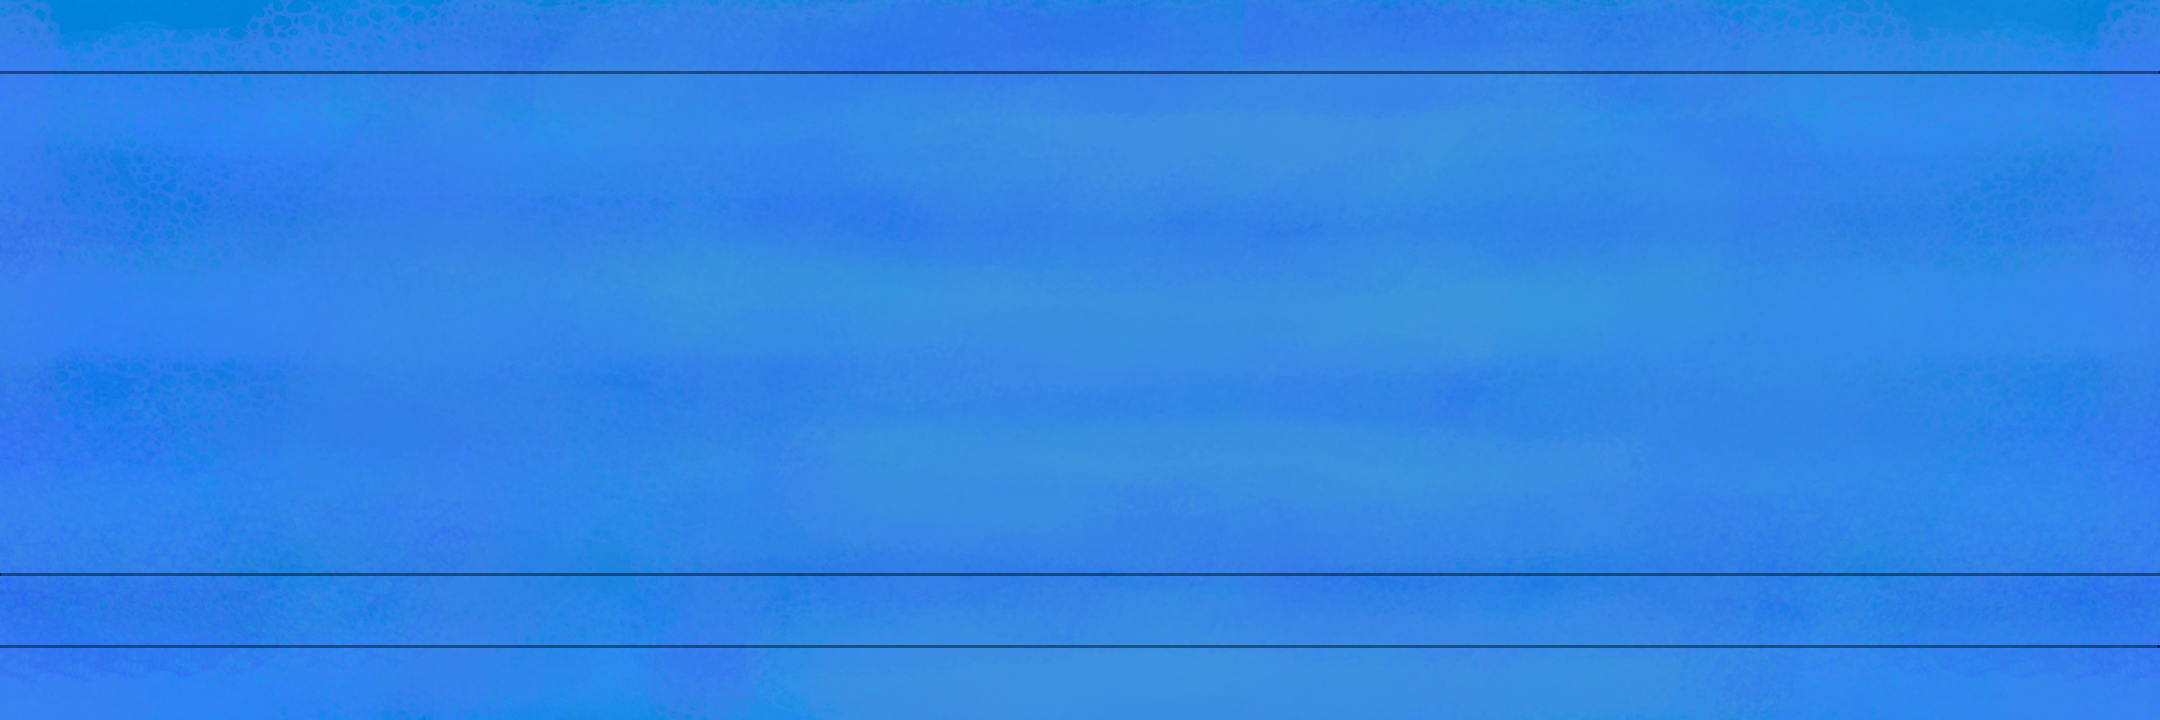
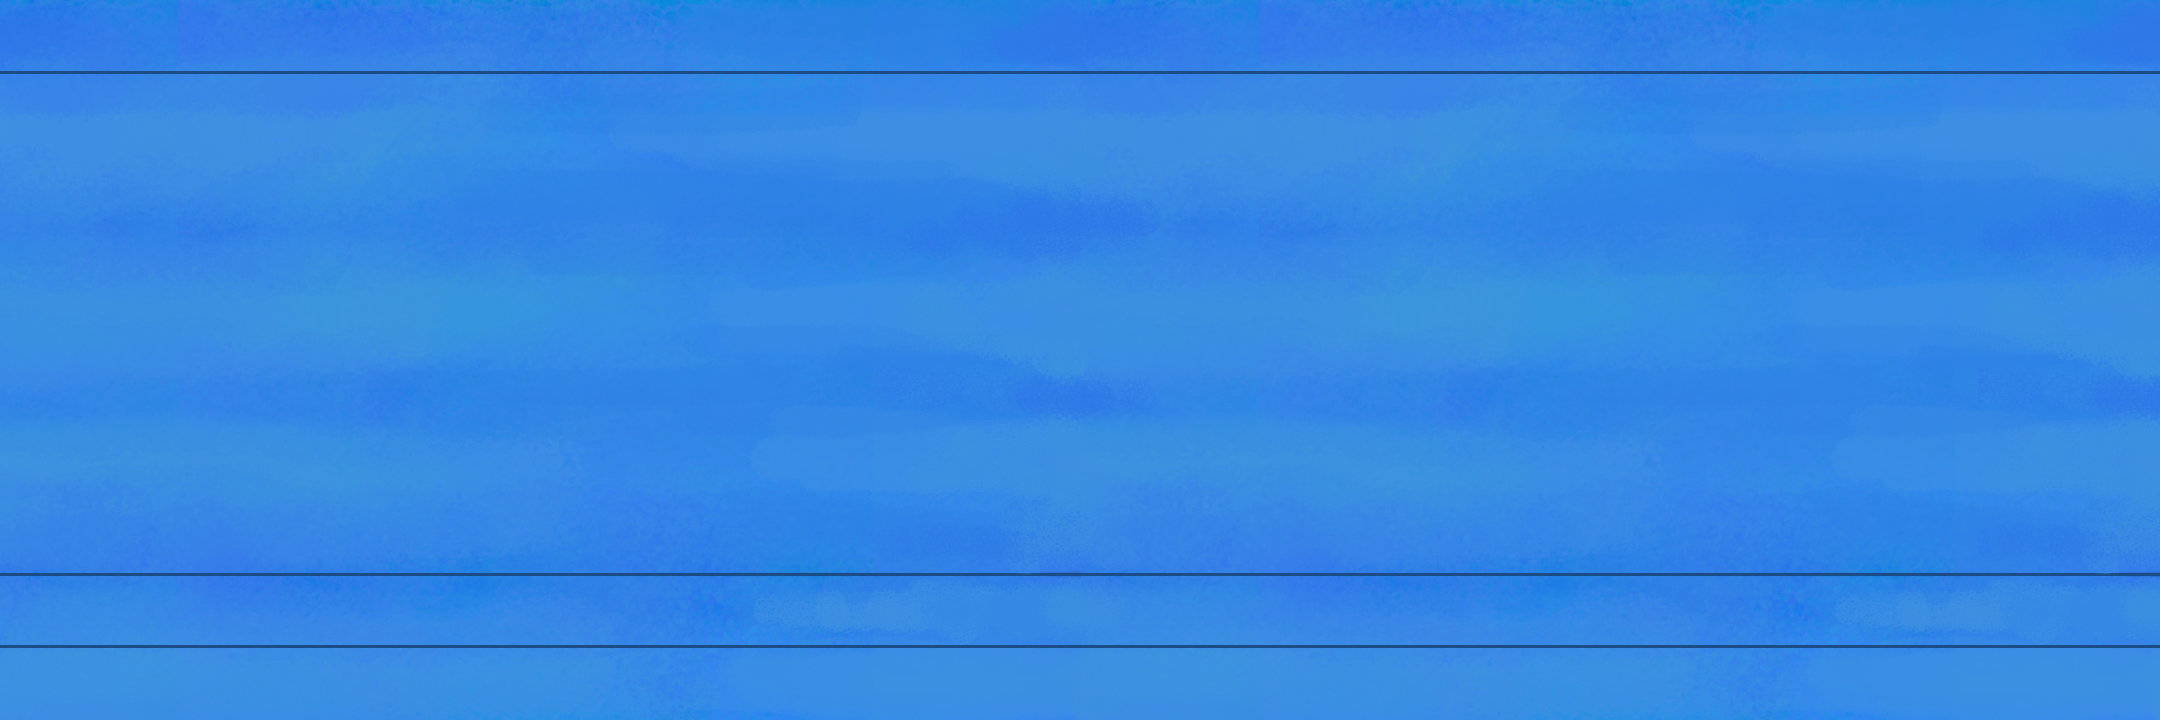
Fixed rolling backgorund and added finish line
Made a smooth transistion when the rolling background moves.
Added Finish line class and implimented in racestate.

diff --git a/River.java b/River.java
@@ -11,14 +11,16 @@ public class River extends GameEntity {
 	private BufferedImage log;
 	private BufferedImage rock;
 	private ArrayList<Obstacle> obstacles;
+	private FinishLine finishLine;
+	private BufferedImage finishLineImage;
 
 	private int speed = 5;
 	private int playerX = 0;
 
 	private int[][][] obstaclePositions = { { // race one positions
-			{ 600, 520 }, { 600, 470 }, { 600, 420 }, { 600, 370 }, { 600, 320 }, { 600, 270 }, { 1400, 300 },
-			{ 1400, 320 }, { 1400, 270 }, { 1400, 220 }, { 1400, 170 }, { 1400, 120 }, { 2500, 570 }, { 2500, 420 },
-			{ 2500, 470 }, { 2500, 120 }, { 2500, 170 }, { 2500, 220 } },
+			{ 600, 520 }, { 600, 470 }, { 600, 420 }, { 600, 370 }, { 600, 320 }, { 600, 270 },
+			{ 1400, 75 }, { 1400, 125 }, { 1400, 175 }, { 1400, 225 }, { 1400, 275 }, { 1400, 325 },
+			{ 2500, 75 }, { 2500, 125 }, { 2500, 175 }, { 2500, 520 }, { 2500, 470 }, { 2500, 420 } },
 			{ // race two positions TODO: add more obstacles
 					{ 400, 500 }, { 1000, 300 }, { 1200, 400 }, { 1600, 300 }, { 2000, 400 } },
 			{ // race three positions TODO: add more obstacles
@@ -32,11 +34,13 @@ public class River extends GameEntity {
 			duck = ImageIO.read(getClass().getResource("/Resources/duck.png"));
 			log = ImageIO.read(getClass().getResource("/Resources/log.png"));
 			rock = ImageIO.read(getClass().getResource("/Resources/rock.png"));
+			finishLineImage = ImageIO.read(getClass().getResource("/Resources/finishLine.png"));
 		} catch (Exception e) {
 			e.printStackTrace();
 		}
 		obstacles = new ArrayList<Obstacle>();
 		initRace(0);
+		finishLine = new FinishLine(500, 0, finishLineImage);
 	}
 
 	public void initRace(int _raceNumber) {
@@ -66,6 +70,7 @@ public class River extends GameEntity {
 		for (Obstacle o : obstacles) {
 			o.draw(g);
 		}
+		finishLine.draw(g);
 	}
 
 	public void setSpeed(int speed) {
@@ -82,9 +87,14 @@ public class River extends GameEntity {
 		for (Obstacle o : obstacles) {
 			o.x = playerX + o.obstaclePositionX;
 		}
+		finishLine.x = playerX + finishLine.finishLinePositionX;
 	}
 
 	public ArrayList<Obstacle> getObstacles() {
 		return obstacles;
+	}
+
+	public FinishLine getFinishLine(){
+		return finishLine;
 	}
 }

diff --git a/RaceState.java b/RaceState.java
@@ -6,9 +6,11 @@ import java.awt.image.BufferedImage;
 public class RaceState extends GameState {
 
     private ArrayList<BufferedImage> boatImages;
-    private ArrayList<Boat> boats;
     private BufferedImage backgroundImage;
     private River river;
+
+    public ArrayList<Boat> boats;
+
 
     public RaceState() {
         super();
@@ -76,8 +78,12 @@ public class RaceState extends GameState {
     @Override
     public void update() {
         river.update();
+        FinishLine fl = river.getFinishLine();
         for (Boat b : boats) {
             b.update();
+            if (fl.collision(b)){
+                System.out.println("Boat finished");
+            }
         }
     }
 

diff --git a/FinishLine.java b/FinishLine.java
@@ -1,0 +1,21 @@
+import java.awt.Graphics;
+import java.awt.image.BufferedImage;
+
+public class FinishLine extends GameEntity{
+
+	int finishLinePositionX;
+
+    public FinishLine(int x, int y, BufferedImage sprite){
+		super(0,y,sprite);
+		finishLinePositionX = x;
+    }
+
+	@Override
+	public void draw(Graphics g) {
+		g.drawImage(sprite, x, y, null);
+	}
+
+	@Override
+	public void update() {}
+
+}
